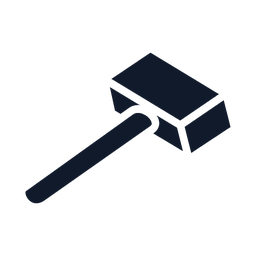
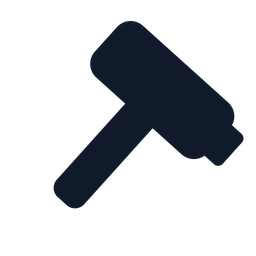
BUILD is a mallet after the owner's reference, swung while offered; one stack gap on the 8 dp rule

Changed region(s): [[0.0938, 0.0625, 0.9688, 0.8125], [0.625, 0.5312, 0.6562, 0.5625], [0.2812, 0.5938, 0.3125, 0.625]]

diff --git a/src/ui.tsx b/src/ui.tsx
@@ -10,7 +10,7 @@ import { FONT_FILES } from './client/font-metrics'
 import { PrestigePanel, prestigeView } from './client/prestige-ui'
 import { FusionPanel, fuserPanelView } from './client/fusion-ui'
 import { intentEnAttente } from './client/intent'
-import { strip, row, topBand, noticeBand, active, BAND, THUMB, COIN_HAUT_DROIT, decalageCentre, setReference } from './client/layout'
+import { strip, row, topBand, noticeBand, active, BAND, THUMB, STACK_GAP, COIN_HAUT_DROIT, decalageCentre, setReference } from './client/layout'
 import { forceDuTir, GEARS, CARRY_STOLEN_SHARE } from './shared/schemas'
 import { Btn, Pouce, Barre, SURF, pctAnime } from './client/ui-kit'
 import { damageFlashAlpha, liveAmounts } from './client/juice'
@@ -175,7 +175,7 @@ const MENU_W = 1088
 const COIN_H = [52, 52, 40, 62]
 /** One feed row. Caption is 21, and 26 leaves the descenders somewhere to go. */
 const FIL_LIGNE = 26
-const COIN_GAP = 14
+const COIN_GAP = STACK_GAP
 
 function coinDroit(rang: number): number {
   const present = [
@@ -374,7 +374,7 @@ const PRECHAUFFE = [
   // Les trois boutons satellites, puis les quatorze verbes du bouton contextuel dans la
   // famille active, quelle qu'elle soit: voir `client/icones.ts`.
   'icon-gun', 'icon-holster', 'icon-jump', 'icon-glide', 'icon-menu',
-  ...ICONES_VERBES,
+  ...ICONES_VERBES, `${ico('build')}-raised`, `${ico('build')}-mid`,
   // The interface icon family and the reveal's ray fan. A texture named for the first time
   // while a panel is drawing arrives a beat late, and the player sees an empty square where
   // the crate should be (owner, 1 Sep). Anything the interface can show has to be listed
@@ -462,7 +462,9 @@ const PhoneControls = () => {
         badge={questsToClaim() > 0} onClick={basculerMenu} />
       {a !== null && (
         <Pouce icone={combatView.aiming ? ico('fire') : (a.icon ?? ico('collect'))} taille={POUCE_GROS}
-          bas={0} droite={0} primaire actions={[InputAction.IA_PRIMARY]} />
+          bas={0} droite={0} primaire actions={[InputAction.IA_PRIMARY]}
+          frames={!combatView.aiming && a.icon === ico('build') ? BUILD_FRAMES : undefined}
+          periodMs={BUILD_SWING_MS} />
       )}
     </UiEntity>
   )
@@ -496,6 +498,10 @@ const DesktopControls = () => {
   The pad's numbers live in layout.ts as THUMB, measured on the client's own pad. The arc
   below only decides where the three satellites go on that orbit.
 */
+/** The mallet's two swing poses, in the active icon family, and the beat they play on. */
+const BUILD_FRAMES: [string, string] = [`${ico('build')}-raised`, `${ico('build')}-mid`]
+const BUILD_SWING_MS = 800
+
 const POUCE_GROS = THUMB.big
 const POUCE = THUMB.small
 const ORBITE = THUMB.orbit
@@ -1572,7 +1578,7 @@ const uiComponent = () => {
             <UiEntity key={`toast${a.ne}`}
               uiTransform={{
                 width: w, height: h,
-                margin: { top: Math.round(-(1 - entree) * 14), bottom: 8 },
+                margin: { top: Math.round(-(1 - entree) * 14), bottom: STACK_GAP },
                 justifyContent: 'center', alignItems: 'center'
               }}
               uiBackground={SKIN.panel}

diff --git a/src/client/ui-kit.tsx b/src/client/ui-kit.tsx
@@ -144,9 +144,27 @@ export const Pouce = (props: {
   /** Sa place sur l'arc, en pixels depuis le coin bas droit du pave. */
   droite?: number
   bas?: number
+  /**
+   * Two extra poses shown in turn at the start of every period, the icon itself being the
+   * pose at rest: [raised, halfway]. A texture swap, so it costs the same as a still icon.
+   */
+  frames?: [string, string]
+  /** How often the swing plays, in ms. */
+  periodMs?: number
 }) => {
   const d = props.taille
   const cle = `pouce|${props.icone}`
+  /*
+    The swing: raised for the first 80 ms of the period, halfway for the next 60, then at
+    rest. No source fixes the cadence of an idle cue (searched 3 Sep: the references give
+    100 to 200 ms for a press and 200 to 400 for a transition, nothing for a loop), so the
+    period is the owner's call and comes in as a prop.
+  */
+  let icone = props.icone
+  if (props.frames !== undefined) {
+    const t = Date.now() % (props.periodMs ?? 800)
+    icone = t < 80 ? props.frames[0] : t < 140 ? props.frames[1] : props.icone
+  }
   const enfonce = Date.now() - (presse.get(cle) ?? 0) < PRESSE_MS
   /*
     The disc, not the plate. The nine-sliced plate passed for round at 86 px and showed
@@ -168,7 +186,7 @@ export const Pouce = (props: {
     >
       <UiEntity
         uiTransform={{ width: Math.round(d * 0.56), height: Math.round(d * 0.56), positionType: 'absolute' }}
-        uiBackground={{ texture: { src: `assets/ui/${props.icone}.png` }, textureMode: 'stretch' }} />
+        uiBackground={{ texture: { src: `assets/ui/${icone}.png` }, textureMode: 'stretch' }} />
       {props.badge === true && (
         <UiEntity
           uiTransform={{

diff --git a/src/client/layout.ts b/src/client/layout.ts
@@ -78,6 +78,17 @@ export const THUMB = {
   bottom: 50
 } as const
 
+/**
+ * The air between two stacked plates, everywhere a stack is drawn.
+ *
+ * The toasts, the corner column and the notices each carried their own number (8, 14, 10),
+ * and on the tester's phone the plates touched (3 Sep). The reference rule is Material's
+ * 8 dp grid: at least 8 dp between components. A phone at 2412x1080 renders our canvas at
+ * 1.5 px per unit and lays about 2.6 px per dp, so 8 dp is 14 of our units; 16 clears it
+ * with the plates' outlines counted in.
+ */
+export const STACK_GAP = 16
+
 /** The three bands, as offsets from the top and the bottom of the reference screen. */
 export const BAND = {
   /** Non-actionable messages: the counter, the step line, the belt announcement. */
@@ -119,7 +130,7 @@ export function topBand(blocks: Array<[string, boolean, number]>): Record<string
   for (const [name, present, height] of blocks) {
     const room = y + height <= BAND.top + BAND.topHeight
     out[name] = room ? y : -1
-    if (present && room) y += height + 8
+    if (present && room) y += height + STACK_GAP
   }
   return out
 }
@@ -162,7 +173,7 @@ export function noticeBand(blocks: Array<[string, boolean, number]>): Record<str
   let y = row(2)
   for (const [name, present, height] of blocks) {
     out[name] = y
-    if (present) y += height + 10
+    if (present) y += height + STACK_GAP
   }
   return out
 }

diff --git a/tools/ui/build-hud-icon.js b/tools/ui/build-hud-icon.js
@@ -471,7 +471,7 @@ fichiers.push(['icon-menu-alert.png', menuIcon(true)])
 fichiers.push(['icon-gun.png', gunIcon(false)])
 fichiers.push(['icon-holster.png', gunIcon(true)])
 // Les verbes du bouton contextuel, dans les deux encres. Le marteau de BUILD n'est pas ici:
-// il vient d'un SVG, voir build-hammer-icon.py.
+// The BUILD glyph is not drawn here: see tools/ui/build-mallet-icon.py.
 for (const [nom, dessin] of VERBES) {
   ENCRE = BLANC
   fichiers.push([`icon-${nom}.png`, dessin()])

diff --git a/src/client/build-stamp.ts b/src/client/build-stamp.ts
@@ -6,4 +6,4 @@
  * construction: the code may be wrong, or the client may simply be showing the previous
  * version. Two hours of that argument (1 Sep) is what this four-character string ends.
  */
-export const BUILD = 'a5ba'
+export const BUILD = 'b405'

diff --git a/tools/ui/build-mallet-icon.py b/tools/ui/build-mallet-icon.py
@@ -1,0 +1,56 @@
+"""
+The BUILD glyph: a wooden mallet, in one mass, with two swing frames.
+
+Drawn after the owner's reference (a line icon of a mallet, 3 Sep): a wide rounded head
+with a small cap on its far end and a long handle running down-left, so the head sits
+top-right. Nothing is drawn inside the shape; at 56 px on a phone only the silhouette
+survives, and this one is the silhouette everybody reads as "build". The earlier glyphs
+came from game-icons and carried claws, nails and shading that turned to mud at that size.
+
+Three poses, rotated about the grip end: raised (22 degrees), halfway (9) and struck (0).
+The struck pose is the icon at rest; the other two are shown for 80 and 60 ms when the
+contextual button offers BUILD, once per period, see `Pouce` in src/client/ui-kit.tsx.
+
+Two families, as for every verb (src/client/icones.ts): `icon-*` white, `encre-*` navy.
+Run: python3 tools/ui/build-mallet-icon.py
+"""
+import os
+from PIL import Image, ImageDraw
+
+HERE = os.path.dirname(os.path.abspath(__file__))
+OUT = os.path.abspath(os.path.join(HERE, '../../assets/ui'))
+N = 256
+SS = 8
+WHITE = (255, 255, 255, 255)
+NAVY = (16, 26, 43, 255)
+TILT = -42          # degrees; the head top-right, the handle down-left
+POSES = {'raised': 22, 'mid': 9, 'struck': 0}
+
+
+def mallet(size, swing_deg, colour, margin=0.10):
+    big = size * SS
+    inner = big * (1 - 2 * margin)
+    k = inner / 100.0
+    off = big * margin
+
+    def u(v):
+        return off + v * k
+
+    layer = Image.new('RGBA', (big, big), (0, 0, 0, 0))
+    d = ImageDraw.Draw(layer)
+    # Upright first: the head on top, the handle straight down, all in a 100-unit box.
+    d.rounded_rectangle([u(13), u(8), u(87), u(42)], radius=u(9) - off, fill=colour)   # head
+    d.rounded_rectangle([u(84), u(15), u(96), u(35)], radius=u(3) - off, fill=colour)  # cap
+    d.rounded_rectangle([u(41), u(30), u(59), u(98)], radius=u(6) - off, fill=colour)  # handle
+    if swing_deg:
+        layer = layer.rotate(swing_deg, resample=Image.BICUBIC, center=(u(50), u(94)))
+    layer = layer.rotate(TILT, resample=Image.BICUBIC, center=(big / 2, big / 2))
+    return layer.resize((size, size), Image.LANCZOS)
+
+
+if __name__ == '__main__':
+    for family, colour in (('icon', WHITE), ('encre', NAVY)):
+        for pose, swing in POSES.items():
+            name = f'{family}-build.png' if pose == 'struck' else f'{family}-build-{pose}.png'
+            mallet(N, swing, colour).save(os.path.join(OUT, name), optimize=True)
+            print(f'wrote {name}')
